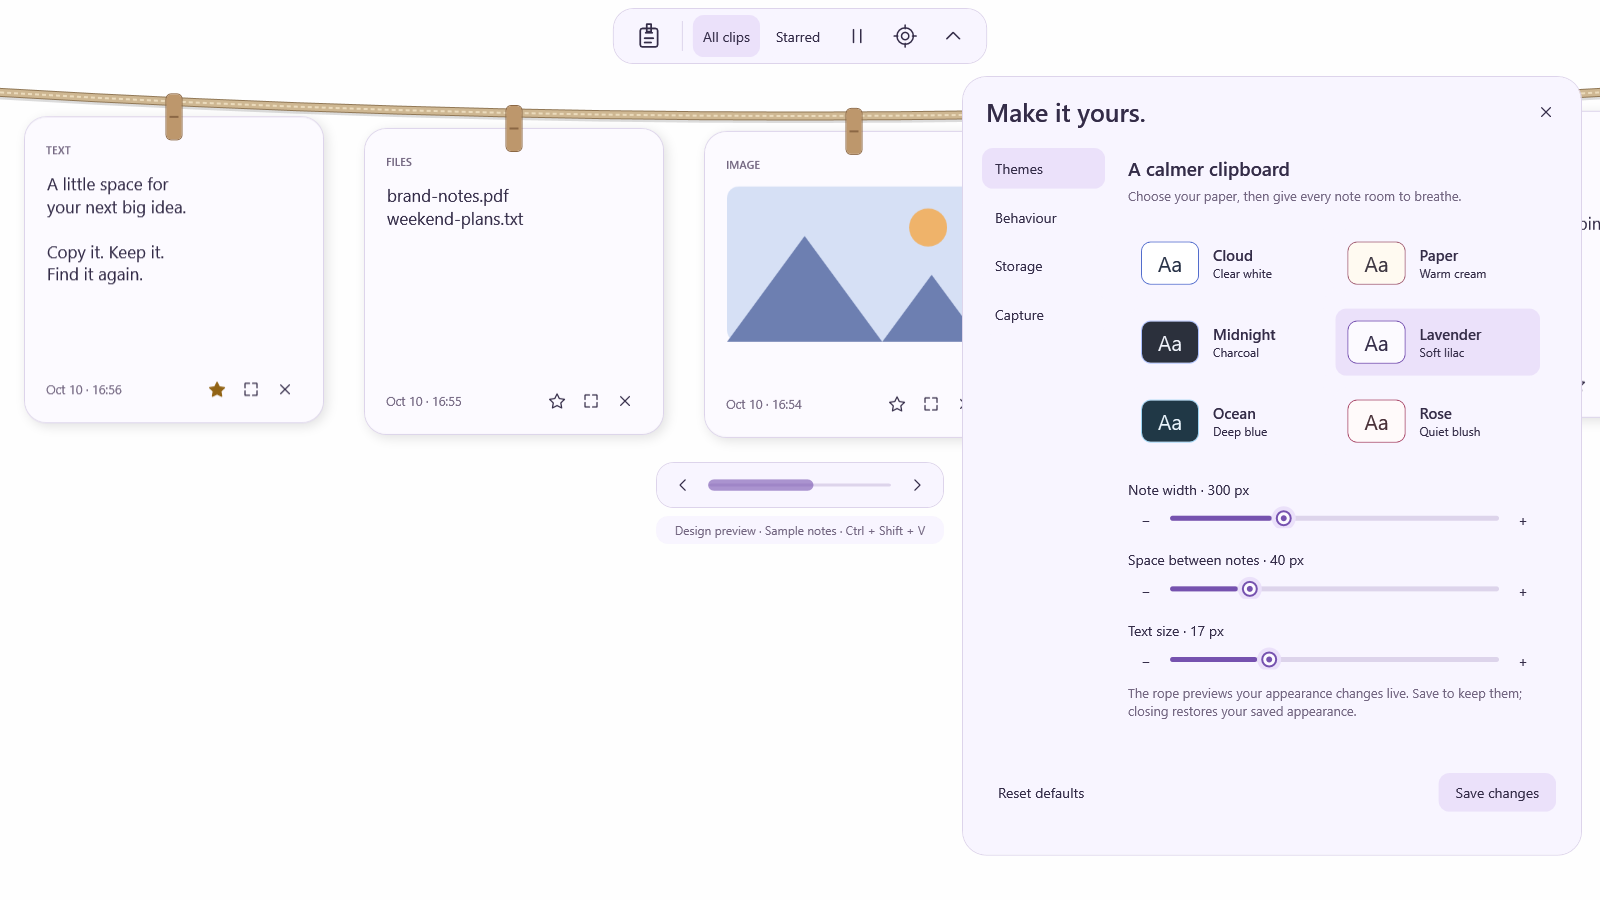
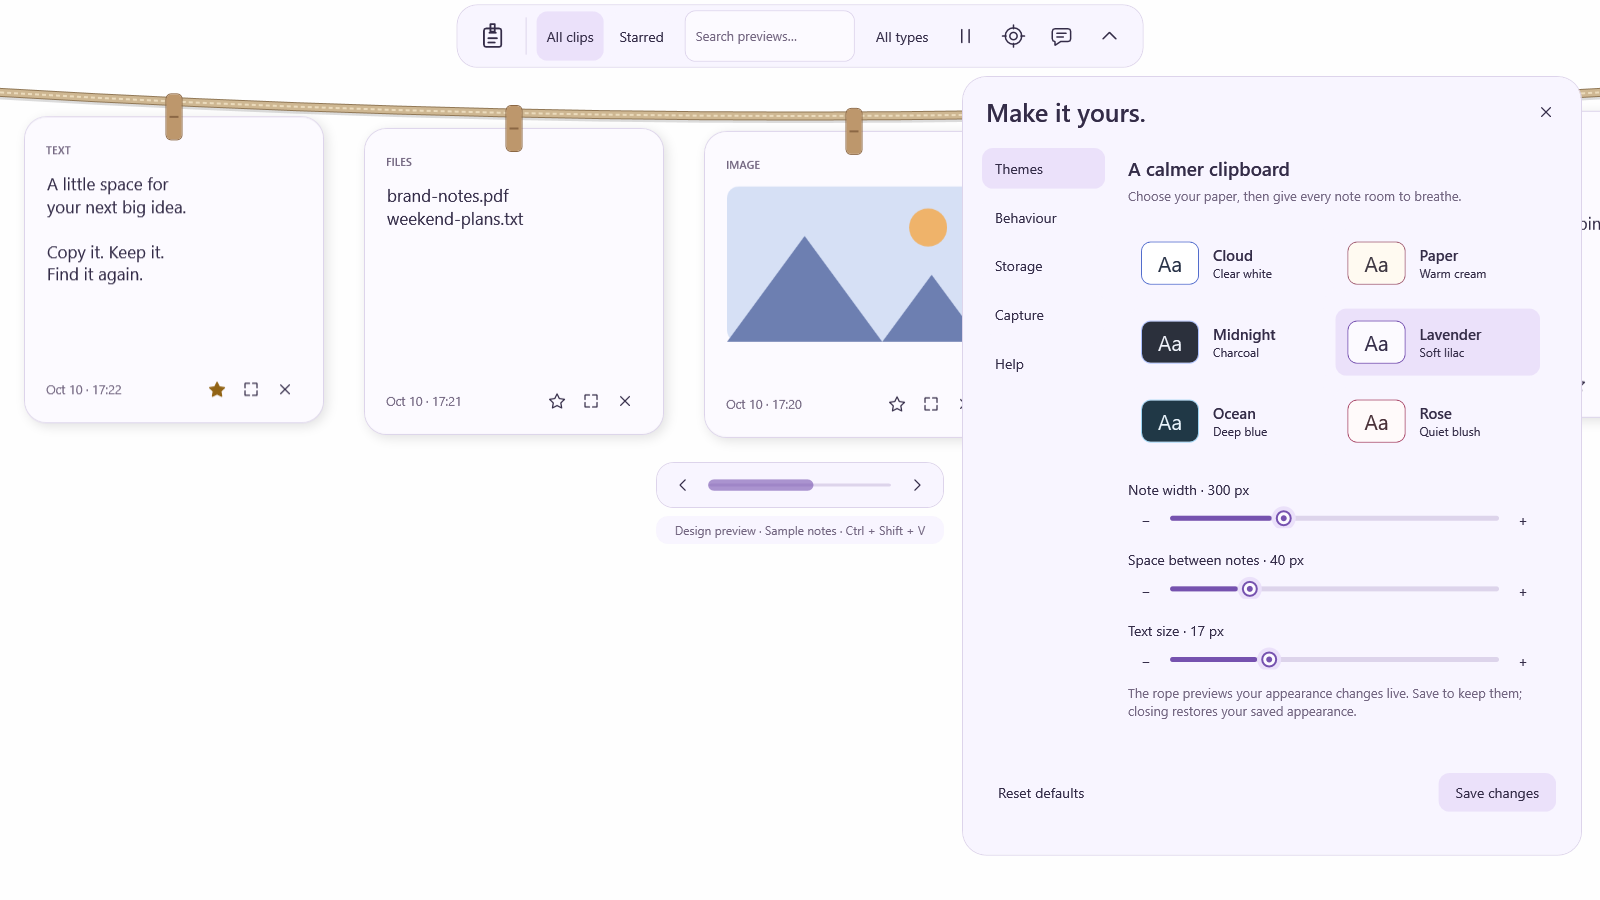
Bound offline file restores and harden clipboard disposal (#7)

Changed region(s): [[0.2812, 0.0, 0.5, 0.0933], [0.625, 0.0311, 0.6875, 0.0622], [0.5312, 0.0311, 0.5938, 0.0622]]

diff --git a/src/Clippboard.App/Services/ClipboardService.cs b/src/Clippboard.App/Services/ClipboardService.cs
@@ -22,6 +22,8 @@ internal sealed class ClipboardService : IDisposable
     private uint _ownSequence;
     private int _attempts;
     private bool _saving;
+    private bool _disposed;
+    private readonly FileAvailabilityProbe _fileProbe = new();
     public bool Paused { get; set; }
     public AppSettings Settings { get; set; } = new();
     public bool HotkeyAvailable { get; private set; }
@@ -35,7 +37,7 @@ internal sealed class ClipboardService : IDisposable
         _save = save;
         _source = new HwndSource(new HwndSourceParameters("Clippboard listener") { Width = 0, Height = 0, WindowStyle = 0 });
         _source.AddHook(WndProc);
-        if (!NativeMethods.AddClipboardFormatListener(_source.Handle)) throw new InvalidOperationException("Cannot listen to the Windows clipboard.");
+        if (!NativeMethods.AddClipboardFormatListener(_source.Handle)) { _source.RemoveHook(WndProc); _source.Dispose(); throw new InvalidOperationException("Cannot listen to the Windows clipboard."); }
         _shortcut = shortcut;
         HotkeyAvailable = NativeMethods.RegisterHotKey(_source.Handle, _hotkeyId, ShortcutModifiers(shortcut), 0x56);
         _retry = new DispatcherTimer { Interval = TimeSpan.FromMilliseconds(80) };
@@ -44,6 +46,7 @@ internal sealed class ClipboardService : IDisposable
 
     private nint WndProc(nint hwnd, int message, nint wParam, nint lParam, ref bool handled)
     {
+        if (_disposed) return 0;
         if (message == 0x0312 && wParam == _hotkeyId) { ToggleRequested?.Invoke(); handled = true; }
         if (message == 0x031D && !Paused)
         {
@@ -55,6 +58,7 @@ internal sealed class ClipboardService : IDisposable
 
     private async void Retry(object? sender, EventArgs e)
     {
+        if (_disposed) { _retry.Stop(); return; }
         if (_saving) return;
         if (Paused || _sequence == _ownSequence) { _retry.Stop(); return; }
         var sequence = _sequence;
@@ -65,7 +69,7 @@ internal sealed class ClipboardService : IDisposable
             if (sequence != NativeMethods.GetClipboardSequenceNumber() || clip is null) return;
             _saving = true;
             try { await _save(clip); }
-            finally { _saving = false; if (_sequence != sequence && !Paused) _retry.Start(); }
+            finally { _saving = false; if (_sequence != sequence && !Paused && !_disposed) _retry.Start(); }
         }
         catch (COMException)
         {
@@ -101,7 +105,7 @@ internal sealed class ClipboardService : IDisposable
         if (settings?.CaptureFiles != false && data.GetDataPresent(DataFormats.FileDrop))
         {
             var paths = data.GetData(DataFormats.FileDrop) as string[];
-            if (paths is null || paths.Length == 0 || paths.Length > 100 || paths.Any(x => x.Length > 32767)) return null;
+            if (paths is null || paths.Length == 0 || paths.Length > 100 || paths.Any(x => string.IsNullOrWhiteSpace(x) || x.Length > 32767)) return null;
             return new Clip { Kind = ClipKind.Files, FilePaths = paths };
         }
         if (settings?.CaptureImages != false && data.GetDataPresent(DataFormats.Bitmap))
@@ -126,6 +130,7 @@ internal sealed class ClipboardService : IDisposable
 
     public async Task RestoreAsync(Clip clip)
     {
+        ObjectDisposedException.ThrowIf(_disposed, this);
         var data = new DataObject();
         switch (clip.Kind)
         {
@@ -141,7 +146,7 @@ internal sealed class ClipboardService : IDisposable
             case ClipKind.Files:
                 var paths = clip.FilePaths ?? [];
                 // Avoid blocking Explorer's UI on unavailable network shares.
-                var available = await Task.Run(() => paths.All(x => File.Exists(x) || Directory.Exists(x)));
+                var available = await _fileProbe.CheckAsync(paths);
                 if (!available) throw new FileNotFoundException("An original file was moved, deleted, or is unavailable. Copy it again.");
                 var files = new StringCollection(); files.AddRange(paths); data.SetFileDropList(files);
                 // Always restore as COPY, never replay an old cut operation.
@@ -149,6 +154,7 @@ internal sealed class ClipboardService : IDisposable
                 break;
         }
         // The setter is synchronous, so own sequence is recorded before the message pump handles its event.
+        ObjectDisposedException.ThrowIf(_disposed, this);
         Clipboard.SetDataObject(data, true);
         _ownSequence = NativeMethods.GetClipboardSequenceNumber();
     }
@@ -165,6 +171,8 @@ internal sealed class ClipboardService : IDisposable
     }
     public void Dispose()
     {
+        if (_disposed) return;
+        _disposed = true;
         _retry.Stop(); _retry.Tick -= Retry;
         NativeMethods.UnregisterHotKey(_source.Handle, _hotkeyId);
         NativeMethods.RemoveClipboardFormatListener(_source.Handle);

diff --git a/tests/Clippboard.Core.Tests/Program.cs b/tests/Clippboard.Core.Tests/Program.cs
@@ -27,6 +27,7 @@ internal static class Program
         try
         {
             CheckFormats();
+            await CheckFileProbeAsync(root);
             Check(MotionMath.Settle(0, true) == 0 && MotionMath.Settle(1, true) == 1, "spring rests at exact endpoints");
             Check(Enumerable.Range(0, 101).Select(i => MotionMath.Settle(i / 100.0, true)).Max() is > 1 and < 1.2, "spring bounce bounded");
             Check(MotionMath.RopeHeight(0, 1600, 24) == 20 && MotionMath.RopeHeight(800, 1600, 24) == 44, "rope attachment curve");
@@ -138,6 +139,10 @@ internal static class Program
                 Check(ClipboardService.ReadData(files, () => null)?.Kind == ClipKind.Files, "files before text");
                 var many = new DataObject(); many.SetData(DataFormats.FileDrop, Enumerable.Range(0, 101).Select(i => @"C:\sample-" + i).ToArray());
                 Check(ClipboardService.ReadData(many, () => null) is null, "file count limit");
+                var invalidFiles = new DataObject(); invalidFiles.SetData(DataFormats.FileDrop, new string[] { null! });
+                Check(ClipboardService.ReadData(invalidFiles, () => null) is null, "malformed null file location cannot crash capture");
+                var blankFiles = new DataObject(); blankFiles.SetData(DataFormats.FileDrop, new[] { " " });
+                Check(ClipboardService.ReadData(blankFiles, () => null) is null, "blank file location rejected");
                 var bitmap = BitmapSource.Create(2, 2, 96, 96, PixelFormats.Bgra32, null, new byte[16], 8);
                 var image = new DataObject(); image.SetImage(bitmap);
                 var converted = ClipboardService.ReadData(image, () => bitmap);
@@ -155,6 +160,32 @@ internal static class Program
         });
         thread.SetApartmentState(ApartmentState.STA); thread.Start(); thread.Join();
         if (failure is not null) throw new InvalidOperationException("Format checks failed", failure);
+    }
+    private static async Task CheckFileProbeAsync(string root)
+    {
+        var existing = Path.Combine(root, "probe-fixture.txt"); await File.WriteAllTextAsync(existing, "synthetic");
+        var local = new FileAvailabilityProbe();
+        Check(await local.CheckAsync([existing]), "file probe finds existing original");
+        Check(!await local.CheckAsync([Path.Combine(root, "missing.txt")]), "file probe rejects missing original");
+        Check(!await local.CheckAsync([]), "empty file reference rejected");
+        using var release = new ManualResetEventSlim();
+        var entered = new TaskCompletionSource(TaskCreationOptions.RunContinuationsAsynchronously);
+        var finished = new TaskCompletionSource(TaskCreationOptions.RunContinuationsAsynchronously);
+        var workers = 0;
+        var slow = new FileAvailabilityProbe(_ => { Interlocked.Increment(ref workers); entered.TrySetResult(); release.Wait(); finished.TrySetResult(); return true; }, TimeSpan.FromMilliseconds(100));
+        try
+        {
+            var first = slow.CheckAsync([existing]); await entered.Task.WaitAsync(TimeSpan.FromSeconds(3));
+            var timedOut = false; try { await first; } catch (FileAvailabilityException) { timedOut = true; }
+            Check(timedOut, "offline file wait returns a recoverable timeout");
+            for (var attempt = 0; attempt < 10; attempt++)
+            {
+                var busy = false; try { await slow.CheckAsync([existing]); } catch (FileAvailabilityException) { busy = true; }
+                Check(busy, "retries cannot spawn more blocked workers " + attempt);
+            }
+            Check(workers == 1, "outstanding file workers bounded to one");
+        }
+        finally { release.Set(); await finished.Task.WaitAsync(TimeSpan.FromSeconds(3)); }
     }
     private static void CheckVisuals(string root)
     {
@@ -318,6 +349,11 @@ internal static class Program
                 Check(missingRejected, "missing original does not replace clipboard");
             }
             finally { service.Paused = true; Clipboard.Clear(); }
+            service.Dispose(); service.Dispose(); Check(true, "clipboard listener disposal is idempotent");
+            var disposedRejected = false;
+            try { Pump(service.RestoreAsync(new Clip { Kind = ClipKind.Text, Text = "must not write" })); }
+            catch (ObjectDisposedException) { disposedRejected = true; }
+            Check(disposedRejected, "disposed listener cannot change clipboard");
         }
     }
     private static async Task WaitForCapture(Func<bool> ready)

diff --git a/src/Clippboard.App/Services/FileAvailabilityProbe.cs b/src/Clippboard.App/Services/FileAvailabilityProbe.cs
@@ -1,0 +1,37 @@
+using System;
+using System.IO;
+using System.Linq;
+using System.Threading.Tasks;
+
+namespace Clippboard.App.Services;
+
+internal sealed class FileAvailabilityException(string message) : IOException(message) { }
+
+// File.Exists on an offline share cannot be reliably cancelled. Bound both the
+// caller's wait and outstanding workers, rather than spawning another for each retry.
+internal sealed class FileAvailabilityProbe
+{
+    private readonly object _gate = new();
+    private readonly Func<string[], bool> _check;
+    private readonly TimeSpan _timeout;
+    private Task<bool>? _running;
+    internal FileAvailabilityProbe(Func<string[], bool>? check = null, TimeSpan? timeout = null)
+    {
+        _check = check ?? (paths => paths.All(path => File.Exists(path) || Directory.Exists(path)));
+        _timeout = timeout ?? TimeSpan.FromSeconds(3);
+    }
+    internal async Task<bool> CheckAsync(string[] paths)
+    {
+        if (paths.Length == 0 || paths.Length > 100 || paths.Any(path => string.IsNullOrWhiteSpace(path) || path.Length > 32767)) return false;
+        Task<bool> work;
+        lock (_gate)
+        {
+            if (_running is { IsCompleted: false }) throw new FileAvailabilityException("A previous file location check is still waiting. Try again later; text and image notes remain available.");
+            var snapshot = (string[])paths.Clone();
+            work = _running = Task.Run(() => _check(snapshot));
+            _ = work.ContinueWith(task => { _ = task.Exception; }, TaskContinuationOptions.OnlyOnFaulted | TaskContinuationOptions.ExecuteSynchronously);
+        }
+        try { return await work.WaitAsync(_timeout).ConfigureAwait(false); }
+        catch (TimeoutException) { throw new FileAvailabilityException("File locations took too long to respond. Reconnect the drive or share, then try again."); }
+    }
+}

diff --git a/src/Clippboard.App/App.xaml.cs b/src/Clippboard.App/App.xaml.cs
@@ -149,6 +149,7 @@ public partial class App : Application
                 Notify("Restored to the clipboard. Press Ctrl + V in your destination app.");
         }
         catch (FileNotFoundException) { _rope!.SetStatus("An original file is unavailable. Copy the file again to update this note."); }
+        catch (FileAvailabilityException ex) { _rope!.SetStatus(ex.Message); }
         catch (Exception ex) when (ex is IOException or System.Runtime.InteropServices.COMException or InvalidOperationException or System.Security.Cryptography.CryptographicException)
         { _rope!.SetStatus("Could not restore this item. Try again or copy the original again."); }
         finally { _selecting = false; }

diff --git a/docs/testing.md b/docs/testing.md
@@ -58,3 +58,9 @@ These are synthetic regression checks, not a guarantee against every crash or a 
 The local suite passes 105 assertions; five packaging guard checks additionally pass for out-of-project signing, incomplete signing configuration, rejecting unsigned artifacts when signing is required, and duplicate checksum metadata. New real-clipboard integration checks are gated to `GITHUB_ACTIONS=true` on isolated Windows runners. Local tests still leave the system clipboard untouched.
 
 CI now exercises actual Windows notifications, Unicode text/image/file capture, pause, own-restore deduplication, exclusion markers, missing originals and clipboard restoration. Packaging checks actual SHA-256 hashes and Authenticode state. Installer checks use a fresh directory and refuse an existing installation: install, same-version reinstall, installed native synthetic preview, and uninstall. These steps do not establish cross-version migration, destination-app paste acceptance, interactive installer behavior, SmartScreen reputation, or signed-build correctness without a real certificate.
+
+[Windows run 38051198647](https://github.com/shardapps/clippboard/actions/runs/38051198647) passed 114 synthetic/isolated-Windows assertions, five packaging guards, unsigned signature metadata, native packaging, installation, same-version reinstall, installed preview and uninstall in 2m8s. Publisher signing remains pending an owner-provided identity.
+
+## Bounded file restoration
+
+122 local assertions pass, including malformed null/blank clipboard paths and a controlled stalled file probe. A file-location check returns a recoverable error after three seconds, and subsequent attempts cannot start additional workers while the original Windows I/O remains outstanding. Windows file existence checks are not cancellable; at most one worker can remain blocked until the OS resolves the request. Text/image restore remains available. Tests verify existing/missing/empty references, timeout, ten rejected retries, and a maximum of one outstanding worker. Clipboard service disposal is idempotent and pending capture completion cannot restart its timer after disposal.

diff --git a/docs/development.md b/docs/development.md
@@ -24,4 +24,6 @@ Use synthetic data. Check Notepad text paste, screenshot-to-Paint paste, and fil
 
 Measure idle CPU for five minutes, working set after repeated image captures/reopen, and disk use at quota. Record evidence in `testing.md`; provisional targets are not measured claims.
 
+File restore checks the original locations off the dispatcher with a three-second caller timeout and one outstanding worker. A stalled Windows network-file call may continue in that worker until Windows resolves it; retries fail without creating more workers. Other clip types remain available.
+
 Preview options: `./scripts/dev.ps1 preview -Theme Midnight`, `-Settings`, `-Detail`, and `-PreviewPath docs/assets/rope-preview.png`. `-Measure` uses 1,000 synthetic notes and writes `artifacts/performance.json`. This excludes clipboard capture, real large-image loads, and installation; it is a reproducible diagnostic, not a production benchmark. Force-collection is used only by this diagnostic mode.
